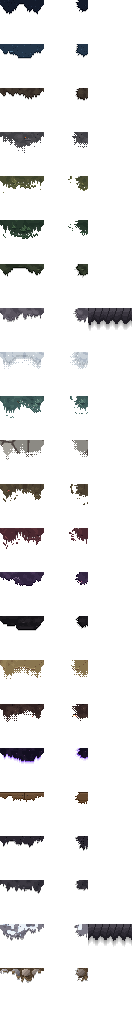
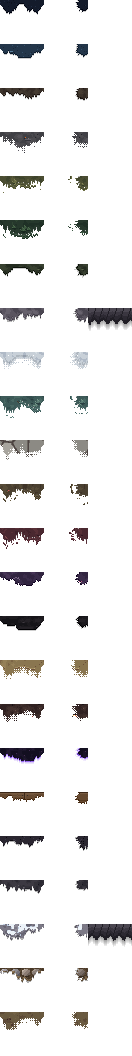
Phase 2: wayfarers' tracks between villages, cobbled village streets
Roads out in the country are now a new terrain, the Wayfarers' Track:
earth trodden hard and pale, scuffed with prints, pebbles kicked aside,
the odd sprig of grass, a puddle or a lost horseshoe, fading into the
ground round it like dust. Village streets, laid paths and floors keep
the cobbles. The track counts as a road wherever roads matter (steps cut
into cliffs, signposts, camps, puddles in the rain, ambient life).

Claude-Session: https://claude.ai/code/session_018VKRMzBJrrQDcMAxNX13Ea

Changed region(s): [[0.0, 0.0306, 0.3333, 0.9802], [0.5152, 0.0306, 1.0, 0.9802], [0.5152, 0.1532, 0.5455, 0.1838]]

diff --git a/tools/generate_ground.py b/tools/generate_ground.py
@@ -826,6 +826,51 @@ def paint_path(tile, field, variant):
         tuft(tile, x + 2, y + 5, [(30, 44, 30, 255), (44, 64, 40, 255), (60, 86, 52, 255), (84, 112, 66, 255), (120, 144, 86, 255)], 2)
 
 
+def paint_track(tile, field, variant):
+    """A wayfarers' track across the country: earth trodden hard and pale,
+    scuffed with prints, pebbles kicked aside, the odd sprig of grass."""
+    t = tile.t
+    base_fill(tile, field, (0.3, 0.72), grain=0.03, seed=variant)
+    r = tile.r
+    # Prints: little dark ovals where feet and hooves have pressed in.
+    for _ in range(r.randrange(3, 7)):
+        x, y = tile.spot(4, N - 6)
+        tile.put(x, y, t[1])
+        tile.put(x + 1, y, t[1])
+        tile.put(x, y + 1, t[1])
+        tile.put(x + 1, y + 1, t[0] if r.random() < 0.4 else t[1])
+        tile.put(x, y - 1, t[3])
+    # Scuffs: short pale streaks where the ground is worn smooth.
+    for _ in range(4):
+        x, y = tile.spot(4, N - 10)
+        for k in range(r.randrange(3, 6)):
+            tile.put(x + k, y, t[3])
+    for _ in range(r.randrange(2, 5)):
+        x, y = tile.spot(4, N - 6)
+        stone(tile, x, y, 2, 2, [hsv_shift(c, ds=-0.25, k=1.05) for c in t])
+    grass = [(30, 44, 30, 255), (44, 64, 40, 255), (60, 86, 52, 255), (84, 112, 66, 255), (120, 144, 86, 255)]
+    if r.random() < 0.5:
+        x, y = tile.spot(5, N - 4)
+        tuft(tile, x, y, grass, 2)
+    if variant >= 6:
+        feature = variant % 3
+        if feature == 0:
+            x, y = tile.spot(8, N - 16)
+            puddle(tile, x, y, 10, 5, (60, 72, 84, 255), (44, 52, 62, 255), t[0], (130, 150, 170, 255))
+        elif feature == 1:
+            x, y = tile.spot(10, N - 16)
+            stone(tile, x, y, 6, 4, [hsv_shift(c, ds=-0.3, k=1.0) for c in t])
+            tuft(tile, x + 6, y + 5, grass, 3)
+        else:
+            # A lost horseshoe.
+            x, y = tile.spot(10, N - 12)
+            iron = (120, 120, 128, 255)
+            for dx, dy in ((0, 0), (0, 1), (0, 2), (1, 3), (2, 3), (3, 3), (4, 2), (4, 1), (4, 0)):
+                tile.put(x + dx, y + dy, iron)
+                tile.darken(x + dx + 1, y + dy + 1)
+            tile.put(x, y, (170, 170, 178, 255))
+
+
 def paint_floor(tile, field, variant):
     """Plain floor for anything else: the old tile, mottled."""
     base_fill(tile, field, (0.4, 0.62), grain=0.05, seed=variant)
@@ -851,6 +896,7 @@ PAINTERS = {
     "mountain": paint_rock,
     "peak": lambda tl, f, v: paint_rock(tl, f, v, peak=True),
     "path": paint_path,
+    "track": paint_track,
 }
 
 

diff --git a/tools/generate_art.py b/tools/generate_art.py
@@ -1856,6 +1856,7 @@ TILES = [
     ("cave_floor", "mud", "34323a", "45434c", "24222a", "55535e"),
     ("peak", "peak", "7c7986", "a4a2ae", "55525e", "eef2f6"),
     ("path", "path", "7a6448", "8e7656", "5c4a34", "a6a2b0"),
+    ("track", "track", "6a5a40", "806c4e", "4e4030", "9a8a6a"),
 ]
 VARIANTS = 12
 # Variants below this are plain ground; the rest each carry one feature.
@@ -2373,7 +2374,7 @@ def _fringe_family(row):
     name, style = TILES[row][0], TILES[row][1]
     if style == "grass":
         return "grass"
-    if style in ("ash", "sand", "snow", "cracked", "cinder"):
+    if style in ("ash", "sand", "snow", "cracked", "cinder", "track"):
         return "powder"
     if style in ("rock", "mountain", "peak") or name in ("cave_floor", "path"):
         return "stone"
